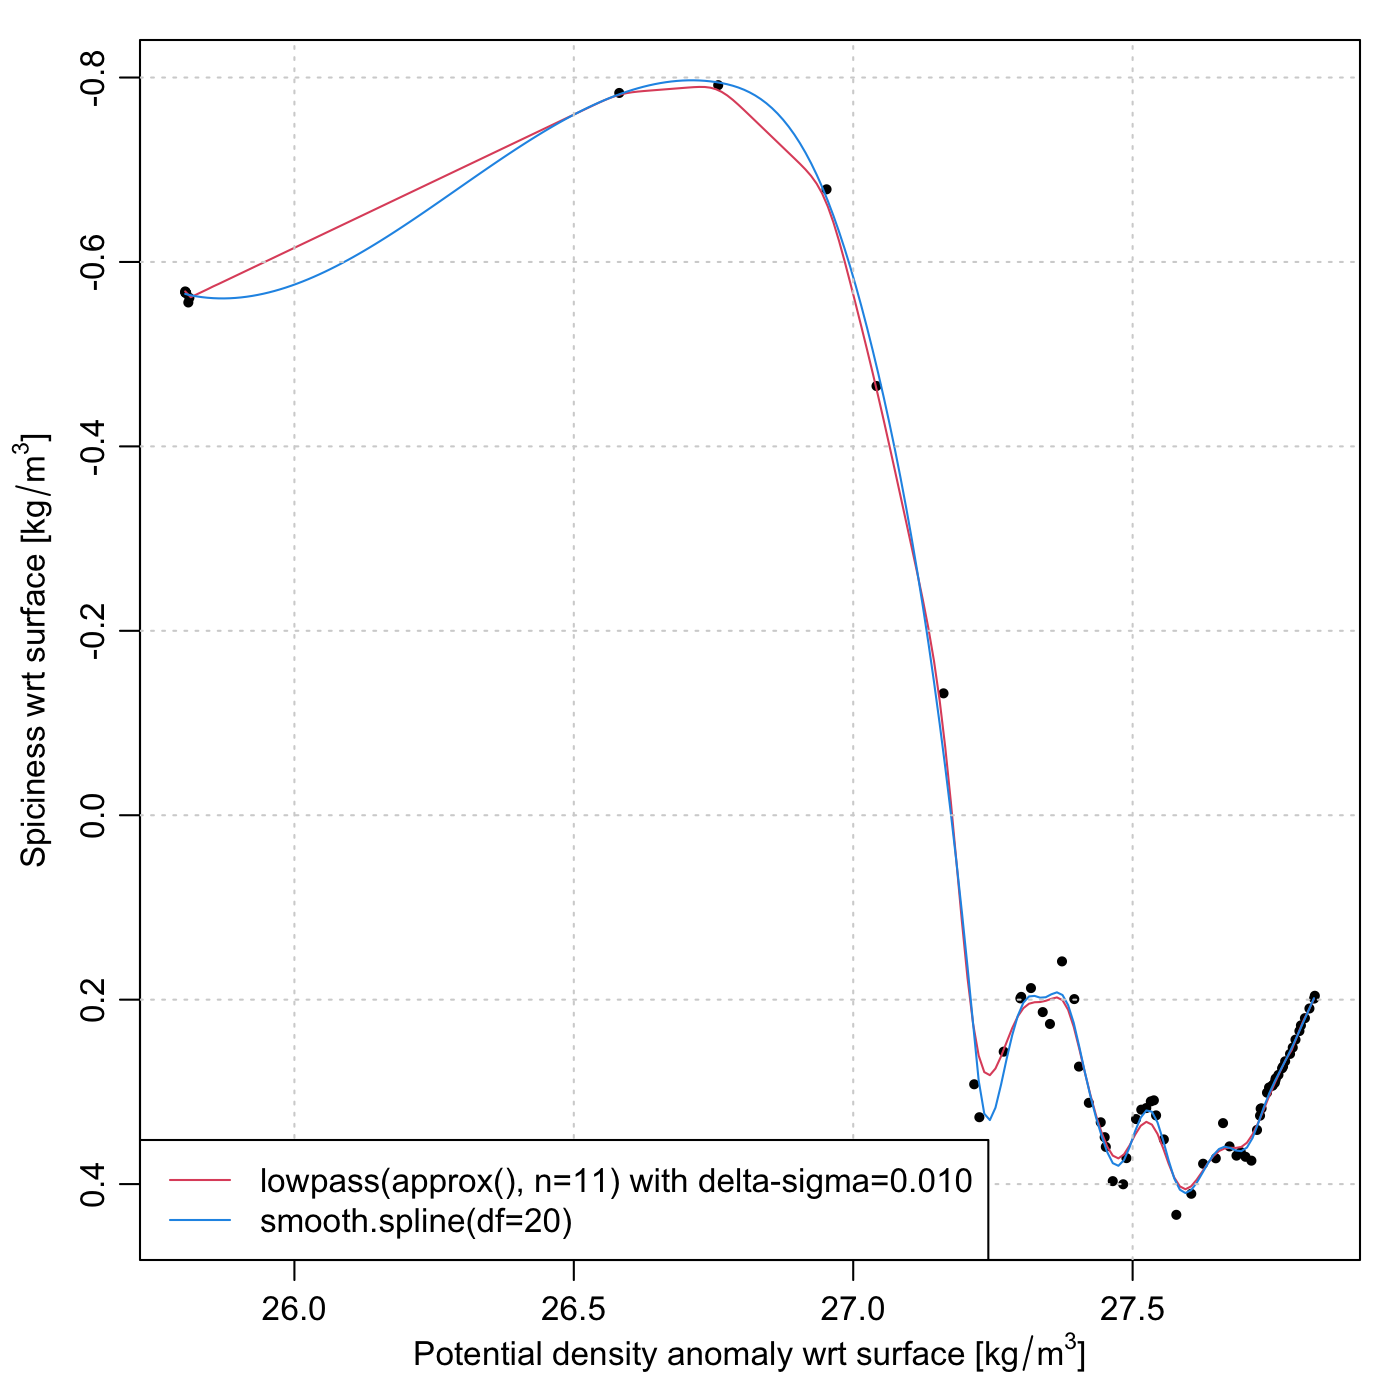
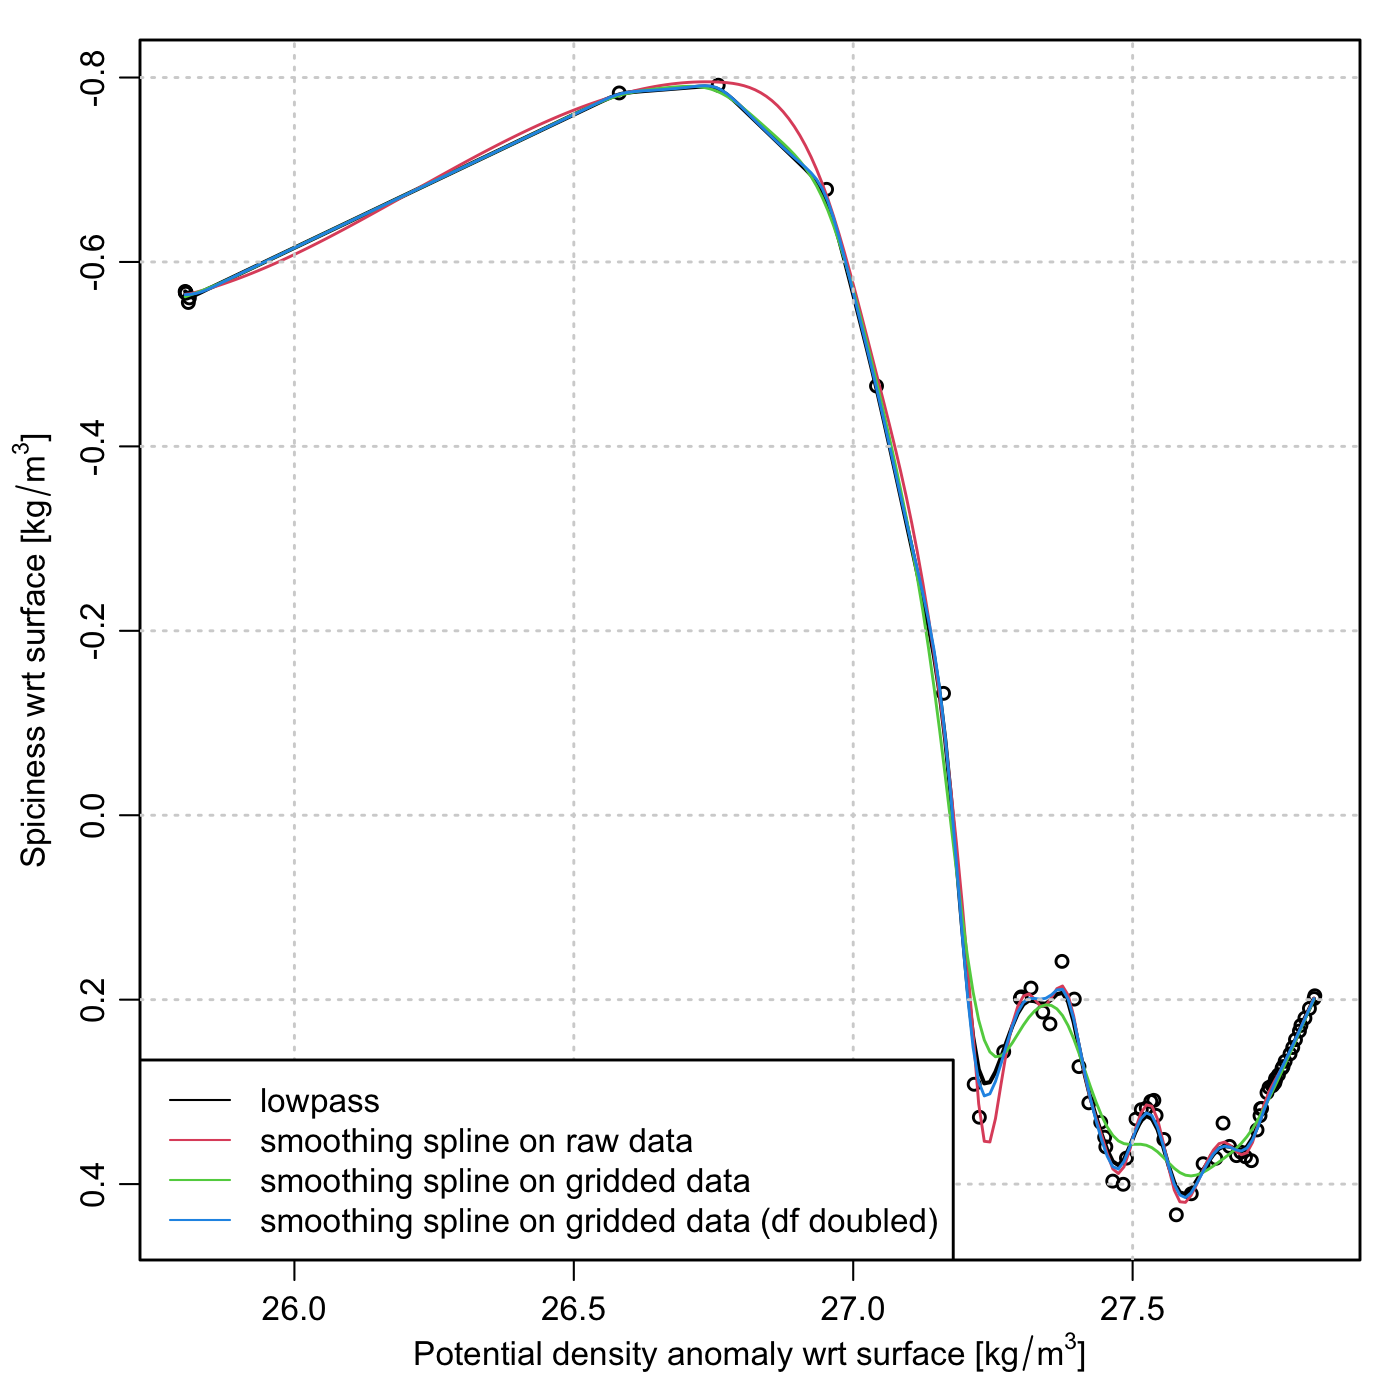
spline

diff --git a/_posts/2024-02-16_spline_vs_lowpass_approx.md b/_posts/2024-02-16_spline_vs_lowpass_approx.md
@@ -4,40 +4,28 @@ author: Dan Kelley
 date: 2024-02-16
 ---
 
-Smoothing data is quite a common problem in oceanography.  If we can think of
-errors (or uncertainties -- you pick the word you like) as occurring just in
-the "y" variable, then I tend to tray two approaches: (1) fit a smoothing
-spline and (2) interpolate linearly onto a fixed grid, and then lowpass.
+Smoothing data is quite a common task in the analysis of oceanographic data. If
+we can think of errors (or uncertainties -- you pick the word you like) as
+occurring just in the "y" variable, then I tend to try two approaches: (1) fit
+a smoothing spline and (2) interpolate the data to a uniform grid and then
+apply a smoothing digital filter.
 
-The graph shows a typical result.  Note that the x spacing of the data is very
-non-uniform, with points separated greatly at the left of the graph, and packed
-together at the right of the graph. In such cases, smoothing splines can have
-problems.  You can see that in the blue curve, in the left half of the graph.
-The lowpassed linear approximation (red curve) does not have this problem, but
-it is perhaps overly linear between points.
+The graph shows a typical result.  It shows the co-dependence of two properties
+of seawater: density (on the x axis) and something called "spiciness" (on the y
+axis).  I am interested in locating spots on this graph where the slope is
+zero.
 
-If the goal were to look at the left side of the graph, altering the parameters
-(namely `deltaSigma` and `n` for the linear approximation, and `df` for the
-spline) could yield to results that might be more suitable, depending on the
-goal.
+I will let the graph and the code speak for themselves.  If you try this kind
+of thing on your own data, I think you'll find that you can get reasonably
+consistent results with the methods illustrate here, after adjusting
+parameters. Because there are no agreed-upon methods for selecting such
+parameters, I advise exploring with representative data, to find values that
+suit your goals, and to see how the results vary if those parmeters are
+adjusted across what is a reasonable range for the application of interest.
 
-But if the goal is to work on the right side of the graph, different settings
-might be used.  And, again, it depends on the goal.  In this particular case, I
-am interested in the x locations of spots where the curve has zero slope. By
-that measure, the two methods are producing similar results. An advantage of
-the smoothing spline is that it can output the derivative, saving the analyst
-from having to compute the derivative using a form of first difference
-(centred, perhaps).
+# Graph under discussion
 
-I am just scratching the surface of possible methods here, and definitely not
-suggesting which I think is best.  But I can suggest three points for
-discussion:
-1. The best method will depend on the goal of the analysis. (That's always
-   true, no matter the task or topic)
-2. It makes sense to trial different methods, with different parameters, on
-   real data.
-3. Combining methods can also make sense, e.g. using `approx()` to put the x
-   data on a uniform grid, and doing a `smooth.spline()` on the results
+![map-projections](/dek_blog/assets/images/2024-02-16_spline_vs_lowpass_approx.png)
 
 # Code
 
@@ -50,28 +38,37 @@ a <- read.oce(file)
 sig0 <- a[["sigma0"]]
 pi0 <- a[["spiciness0"]]
 png("2024-02-16_spline_vs_lowpass_approx.png", height = 7, width = 7, unit = "in", res = 200)
-par(mfrow = c(1, 1), mar = c(3.5, 3.5, 1, 1), mgp = c(2, 0.7, 0))
+par(mfrow = c(1, 1), mar = c(3.5, 3.5, 1, 1), mgp = c(2, 0.7, 0), lwd = 1.4)
 plot(sig0, pi0,
     xlab = resizableLabel("sigma0"),
     ylab = resizableLabel("spiciness0"),
     ylim = rev(range(pi0)),
-    pch = 20, cex = 0.8
+    cex = 0.8
 )
 deltaSigma <- 0.01
-n <- 11
-df <- 20
+n <- 9 # must be an odd number
+df <- length(sig0) / 3
 sig0out <- seq(min(sig0), max(sig0), deltaSigma)
 a <- approx(sig0, pi0, sig0out)
-lines(a$x, lowpass(a$y, n = n), col = 2)
-s <- smooth.spline(pi0 ~ sig0, df = df)
-ps <- predict(s, sig0out)
-lines(ps$x, ps$y, col = 4)
+lines(a$x, lowpass(a$y, n = n), col = 1, lwd = 2)
+s1 <- smooth.spline(pi0 ~ sig0, df = df)
+ps1 <- predict(s1, sig0out)
+lines(ps1$x, ps1$y, col = 2)
+s2 <- smooth.spline(a$y ~ a$x, df = df)
+ps2 <- predict(s2, sig0out)
+lines(ps2$x, ps2$y, col = 3)
+s3 <- smooth.spline(a$y ~ a$x, df = df * 2)
+ps3 <- predict(s3, sig0out)
+lines(ps3$x, ps3$y, col = 4)
+
 grid()
 legend("bottomleft",
-    lwd = 1, col = c(2, 4), bg = "white",
+    lwd = 1, col = 1:4, bg = "white",
     legend = c(
-        sprintf("lowpass(approx(), n=%d) with delta-sigma=%.3f", n, deltaSigma),
-        sprintf("smooth.spline(df=%d)", df)
+        "lowpass",
+        "smoothing spline on raw data",
+        "smoothing spline on gridded data",
+        "smoothing spline on gridded data (df doubled)"
     )
 )
 ```
